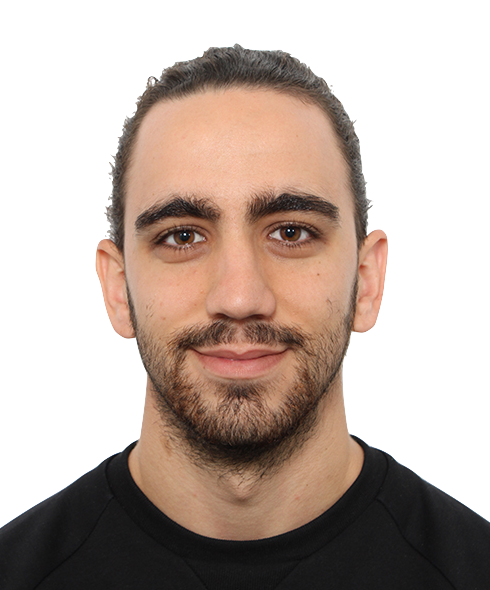
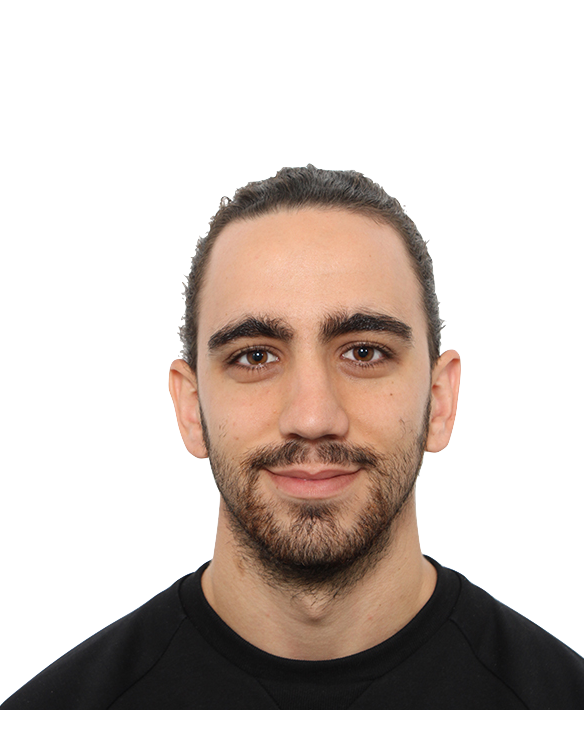
Image placing

diff --git a/index.html b/index.html
@@ -109,7 +109,7 @@
                             129.362C2.45775 97.8511 -7.48481 59.1033 6.67581 34.5279C20.9871 10.1032 59.7028
                             -0.149132 97.9666 0.00163737C136.23 0.303176 174.193 10.857 190.312 36.4879Z"/>
 
-                            <image class="home__blob-img" x='12' y='18' xlink:href="assets/img/profile.png"/>
+                            <image class="home__blob-img" x='15' y='-10' xlink:href="assets/img/profile.png"/>
                             <!--image href=""/-->
                         </g>
                     </svg>
